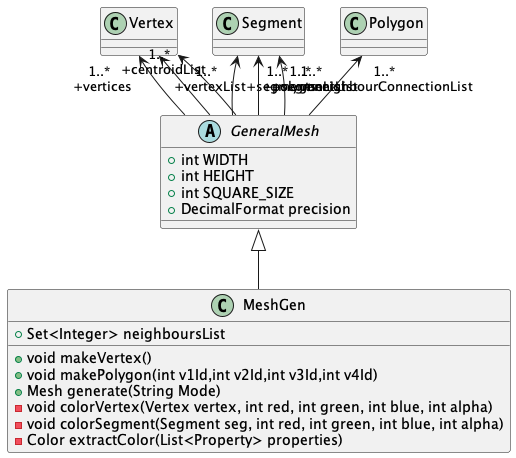
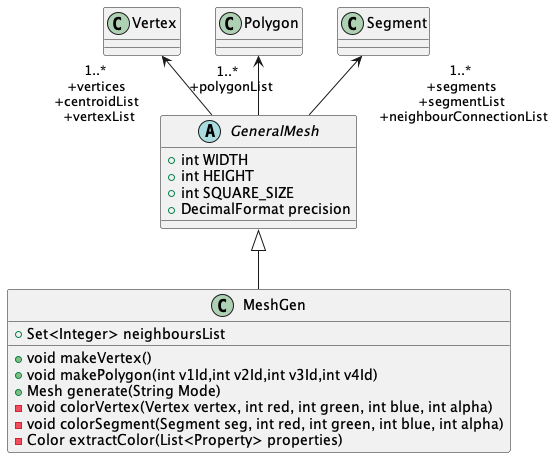
Updated PlantUML & ReadME

diff --git a/README.md b/README.md
@@ -63,14 +63,15 @@ When you develop features and enrich the product, remember that you have first t
 
 ### Product Backlog
 
-| Id  | Feature title           | Who?             | Start  | End    | Status |
-|:---:|-------------------------|------------------|--------|--------|--------|
-| F0  | Segment Generated       | Raymond Ma       | Feb 5  | Feb 9  | Done   |
-| F1  | Segment Colour Added    | Gayan Athukorala | Feb 9  | Feb 9  | Done   |
-| F2  | Segment Visualizer      | Rhea Gokhale     | Feb 9  | Feb 9  | Done   |
-| F3  | Creating a mesh ADT     | Raymond Ma       | Feb 16 | Feb 16 | Done   |
-| F4  | Producing full meshes   | Gayan Athukorala | Feb 17 | Feb 22 | Done   |
-| F5  | Implementing Debug Mode | Gayan + Rhea     | Feb 22 | Feb 24 | Done   |
+| Id  | Feature title           | Who?             | Start | End    | Status |
+|:---:|-------------------------|------------------|-------|--------|-------|
+| F0  | Segment Generated       | Raymond Ma       | Feb 5 | Feb 9  | Done  |
+| F1  | Segment Colour Added    | Gayan Athukorala | Feb 9 | Feb 9  | Done  |
+| F2  | Segment Visualizer      | Rhea Gokhale     | Feb 9 | Feb 9  | Done  |
+| F3  | Creating a mesh ADT     | Raymond Ma       | Feb 16 | Feb 16 | Done  |
+| F4  | Producing full meshes   | Gayan Athukorala | Feb 17 | Feb 22 | Done  |
+| F5  | Implementing Debug Mode | Gayan + Rhea     | Feb 22 | Feb 24 | Done  |
+| F6  | PlantUML Diagram        | Raymond Ma       | Feb 24 | Feb 25 | Done  |
 
 
 
